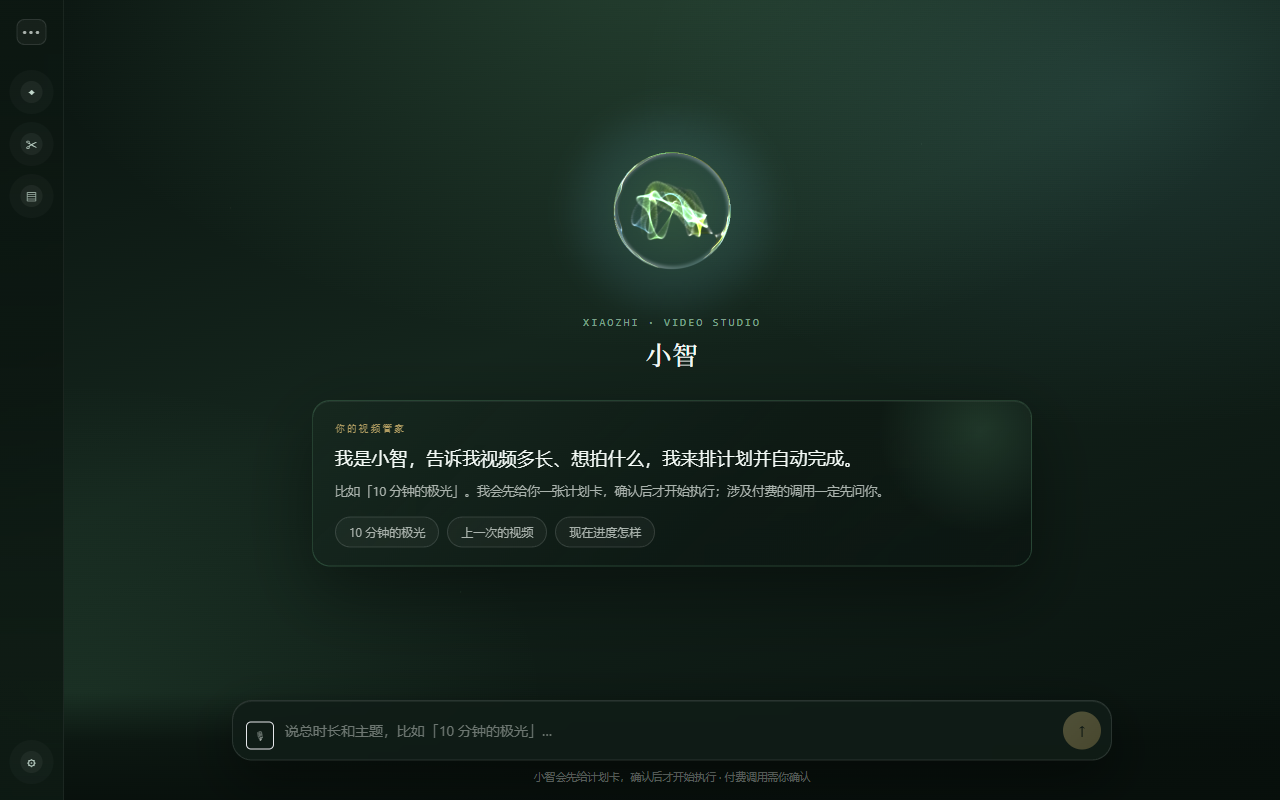
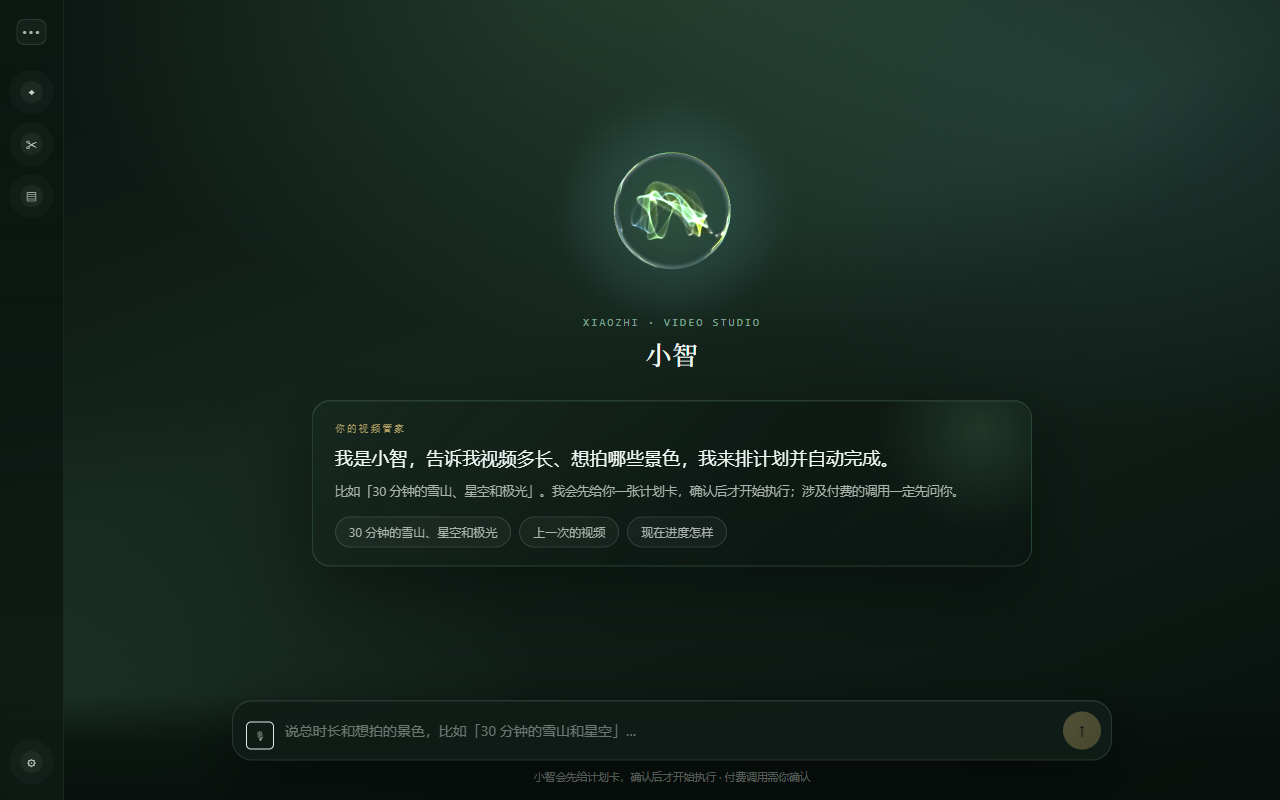
docs: 用户反馈修订记录（多主题示例/planCard 需重启/入口球改绿）+ 截图刷新
- changelog/00-总计划/设计任务书：记录 11:30 修订、verify-assistant 95/0、verify-xiaozhi-home 43/0、CDP 22/0；
  明确 planCard 多主题是后端改动，需重启 3001 才生效（当前运行进程仍显示单主题）
- 刷新 6 张验收截图（新示例文案、绿色小智入口球、多主题输入）

diff --git a/docs/交接/2026-11-16-小智页面改造-设计任务书.md b/docs/交接/2026-11-16-小智页面改造-设计任务书.md
@@ -30,7 +30,7 @@
 2. **主区顶部**：一个**大号小智球**（绿色发光球，沿用现有 orb 视觉，约 96–140px），旁边/下方有页面标识。
 3. **介绍卡（关键）**：在**大球与对话窗口之间**，一张横向卡片，1–2 句像 agent 开场白，例如：
    - “我是小智，告诉我视频多长、想拍什么，我来排计划并自动完成。”
-   - 可带 3 个建议 chips（如“10 分钟的极光”“上一次的视频”“现在进度怎样”）。
+   - 可带 3 个建议 chips（如“30 分钟的雪山、星空和极光”“上一次的视频”“现在进度怎样”）。
    - 有对话后介绍卡可收起/缩小（或保留在顶部），消息区在下方滚动。
 4. **对话区**：复用现有 `assistant.js` 的消息/计划卡/状态机/记忆/ASR 逻辑；用户消息与助手消息气泡；计划卡、确认执行、进度状态条照旧。
 5. **底部输入框（关键）**：**固定在页面下方**（主区底部，像微信），不是右下角浮动面板；包含文本框（自适应高度）、语音（按住说话/ASR）、发送按钮；空态时也可直接输入。
@@ -50,7 +50,7 @@
 ## 3. 验收
 
 - 1440×900 与 1280×800 截图（Chrome CDP 9222，参考 `.scratch/auto_chain/capture_home.js`）；与草图逐项对照。
-- 交互：4 个导航项可点；三个点收起/展开；`/create` 仍能打开六步向导；底部输入框固定；发一句“10 分钟的极光”能出计划卡（Mock/零计费）；语音按钮存在（ASR 可用）。
+- 交互：4 个导航项可点；三个点收起/展开；`/create` 仍能打开六步向导；底部输入框固定；发一句“30 分钟的雪山、星空和极光”能出计划卡（Mock/零计费）；语音按钮存在（ASR 可用）。
 - 无 console 错误；`node scripts/verify-p6-offline.js` 仍 41/0（如导航文案/静态断言变化，需同步测试并说明）；前端改动只涉及 `web/`。
 - 不发起任何真实计费调用；不覆盖他人未提交改动；只增量 edit。
 
@@ -91,9 +91,14 @@
   **退出板块**：板块页左栏顶部新增「小智 · 对话首页 · 点这里回来」入口（`aria-label="回到小智首页"` → `/`）；
   剪辑台 `←` 改「返回小智」（`/`）；生成页「退出观看」回 `/`。**只改 web/，未重启 3001**。
 - **验收**：CDP 9222 实操 **22/0**（1440×900 / 1280×800、默认 64px → 212px → 64px → 刷新保持、`/create` 向导、
-  `/create` 与 `/library` 左栏「小智」入口点击回 `/`、发「10 分钟的极光」出计划卡、无 console 错误）；
+  `/create` 与 `/library` 左栏「小智」入口点击回 `/`、发「30 分钟的雪山、星空和极光」出计划卡、无 console 错误）；
   截图 `.scratch/auto_chain/xiaozhi-home/` 与 `app/docs/交接/xiaozhi-screenshots/`（6 张已入库）；
-  `node scripts/verify-xiaozhi-home.js` **42/0**（已注册 verify-all fast）；`verify-p6-offline` 41/0、`verify-editor-nav` 15/0、
+  `node scripts/verify-xiaozhi-home.js` **43/0**（已注册 verify-all fast）；`verify-p6-offline` 41/0、`verify-editor-nav` 15/0、
   `verify-editor-shell` 25/0；/library /edit /settings 与全局悬浮球面板 smoke 正常。
 - **未做 / 未验证**：计划卡「确认执行」未点（会建任务/计费）；语音未实际录音；板块页仍是 212px 固定左栏
   （顶部有「小智」退出入口；如要全局收起需再改 shell.js Rail）。
+
+- **11:30 用户反馈修订**：示例从「10 分钟的极光」改为「30 分钟的雪山、星空和极光」（长片多主题）；
+  `planCard` 支持多主题 label（theme 取第一个，themeLabel 展示全部；`verify-assistant` **95/0**）；
+  板块页「小智 · 对话首页」小球改绿，与首页大球同源。
+  **注意：planCard 是后端改动，需重启 3001 才生效；本窗口未重启，当前运行进程仍显示单个主题。**

diff --git a/docs/spec/changelog.md b/docs/spec/changelog.md
@@ -3381,7 +3381,7 @@ $env:DATABASE_TYPE='json'; node scripts/verify-seam-qc.js; $env:DATABASE_TYPE=''
   另含板块页左栏「小智 · 对话首页」入口样式 `.rail-home`。
 - `web/src/components/assistant.js`：新增 `page` 模式，整页复用同一套状态与接口
   （记忆恢复 / 计划卡 / 状态机轮询 / `/api/assistant/message|execute|state|memory|asr` / 语音）；
-  介绍卡 1–2 句 + 3 个 chips（10 分钟的极光 / 上一次的视频 / 现在进度怎样）；有消息后大球缩小、介绍卡收起；
+  介绍卡 1–2 句 + 3 个 chips（30 分钟的雪山、星空和极光 / 上一次的视频 / 现在进度怎样）；有消息后大球缩小、介绍卡收起；
   输入框随内容长高、Enter 发送；`navigate('/')` 改 `/create`（填入提示词回向导）。
 - `web/src/screens/shell.js`：`/` → home（渲染 AssistantPage，无全局左栏/任务条/悬浮球）；`/create` → 六步向导；
   导航「创作」→ `/create`。`gen/inventory/templates/editor` 里的 `navigate('/')` 一并改 `/create`（原意都是回向导）。
@@ -3394,7 +3394,7 @@ $env:DATABASE_TYPE='json'; node scripts/verify-seam-qc.js; $env:DATABASE_TYPE=''
 - CDP 9222 浏览器实操 **22/0**：1440×900 / 1280×800 截图；`.xz-page`、4 导航项、大球、介绍卡 + 3 chips、
   底部输入框贴底；**默认 64px → 点三个点 212px → 再点 64px → 刷新仍 64px**；`/create` 打开六步向导（有提示词/下一步）；
   **`/create`、`/library` 左栏「小智 · 对话首页」可见，点击回 `/`**；
-  发「10 分钟的极光」→ 用户消息 + 小智回复 + 计划卡出现（未点确认执行，零计费）；is-compact 生效；无 console 错误。
+  发「30 分钟的雪山、星空和极光」→ 用户消息 + 小智回复 + 计划卡出现（未点确认执行，零计费）；is-compact 生效；无 console 错误。
   截图：`.scratch/auto_chain/xiaozhi-home/`（6 张）与 `app/docs/交接/xiaozhi-screenshots/`（6 张，已入库）。
 - `node scripts/verify-xiaozhi-home.js` → **42 通过 / 0 失败**（静态 36 + 3001 只读 6；已注册 verify-all 的 fast 组）。
 - 回归：`verify-editor-nav` 15/0、`verify-p6-offline` 41/0、`verify-editor-shell` 25/0。
@@ -3404,3 +3404,14 @@ $env:DATABASE_TYPE='json'; node scripts/verify-seam-qc.js; $env:DATABASE_TYPE=''
 - 未点击计划卡「确认执行」（真实模型会产生计费；Mock 也会建任务）；语音按钮未实际录音（ASR 接口已由 P5 验收）。
 - 首页默认收起/可展开；板块页仍是 212px 固定左栏（顶部有「小智」退出入口）。如要全局统一可收起，需再改 shell.js 的 Rail。
 - 浏览器证据来自 CDP 9222（本机 Chrome），非人工手感验收；1440/1280 之外的分辨率未截图。
+
+### 用户反馈修订（2026-11-16 11:30）
+
+- **示例不再用「10 分钟全是极光」**：长视频是一次多主题混合，首页介绍卡 / 输入框 / 面板默认话术 / 首页气泡统一改为
+  「30 分钟的雪山、星空和极光」，并明确「长片可以一次说多个主题」。
+- **planCard 支持多主题**：`findThemes()` 按原文出现顺序识别并去重；`theme` 仍取第一个（作为 promptComposer 的氛围参数），
+  `themeLabel` 展示全部（如「雪山冰川、星空银河、极光」）。单主题行为不变（`verify-assistant` 95/0）。
+  **注意：这是后端改动，需重启 3001 才生效；本窗口按约束未重启，当前运行进程仍显示单个主题。**
+- **板块页「小智 · 对话首页」小球改为与首页大球同源的绿色渐变**（原为蓝色）；WebGL 不可用时的兜底球也改为绿色，
+  保持「小智 = 绿色液态球」的一致形态。
+- 验收：`verify-assistant` **95/0**、`verify-xiaozhi-home` **43/0**、CDP 9222 **22/0**（示例/配色已刷新截图）。

diff --git a/docs/交接/00-总计划与进度.md b/docs/交接/00-总计划与进度.md
@@ -24,9 +24,13 @@
 > 六步向导保留 `/create`；**左侧默认收起为 64px 图标条（用户指定的第三张截图形态），三个点可展开到 212px**；
 > **板块页（/create /library /settings /gen 等）左栏顶部新增「小智 · 对话首页」入口，点一下回 `/`；剪辑台左上角 ← 返回小智；
 > 生成页「退出观看」回小智**。只改 `web/`，未新增依赖、未重启 3001。
-> CDP 9222 实操 **22/0**（1440/1280、默认收起/展开、板块退出、计划卡、无 console 错误）、`verify-xiaozhi-home` **42/0**、
+> CDP 9222 实操 **22/0**（1440/1280、默认收起/展开、板块退出、计划卡、无 console 错误）、`verify-xiaozhi-home` **43/0**、
 > `verify-p6-offline` 41/0、`verify-editor-nav` 15/0、`verify-editor-shell` 25/0。
-> 仍剩：① 真实付费任务需用户同意；② 语音未实际录音验收；③ 首页导航收起/展开只在 `/` 使用新样式（板块页仍是 212px 固定左栏）。
+> **11:30 用户反馈修订**：长片是多主题混合，示例从「10 分钟的极光」改为「30 分钟的雪山、星空和极光」；
+> `planCard.findThemes()` 支持多主题 label（theme 取第一个，themeLabel 展示全部），**后端改动需重启 3001 才生效**
+> （当前 PID 25988 是旧进程，计划卡仍显示单主题）；板块页「小智 · 对话首页」小球改为与大球一致的绿色。
+> 仍剩：① 真实付费任务需用户同意；② 语音未实际录音验收；③ 首页导航收起/展开只在 `/` 使用新样式（板块页仍是 212px 固定左栏）；
+> ④ 重启 3001 让多主题 planCard 生效（由用户/下个窗口执行，本窗口按约束未重启）。
 
 ## 使用方式（新窗口三步）
 
@@ -378,6 +382,9 @@
   `verify-xiaozhi-home` 42/0、`verify-p6-offline` 41/0、`verify-editor-nav` 15/0、`verify-editor-shell` 25/0；
   /library /edit /settings 与悬浮球面板 smoke 正常。
   未做：计划卡「确认执行」（计费）、语音实际录音；板块页左栏仍是 212px 固定（只有首页用新收起样式）。
+- 2026-11-16 11:30（接手窗口续）：按用户反馈修示例与配色 —— 示例改「30 分钟的雪山、星空和极光」，
+  `planCard` 支持多主题 label（需重启生效）；「小智 · 对话首页」小球改绿与大球一致；`verify-assistant` 95/0、
+  `verify-xiaozhi-home` 43/0、CDP 22/0。**未重启 3001**（多主题后端待重启后生效）。
 
 ## 红线（简版，完整见 handoff §10）
 
